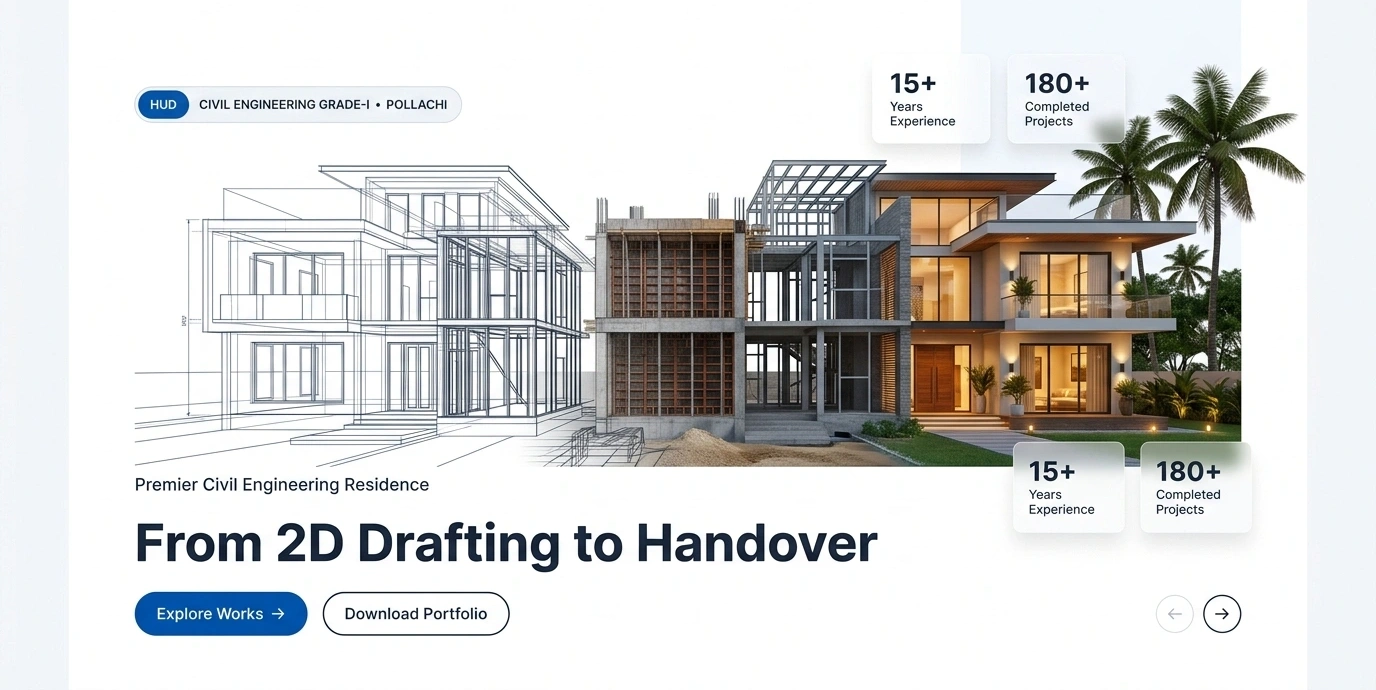
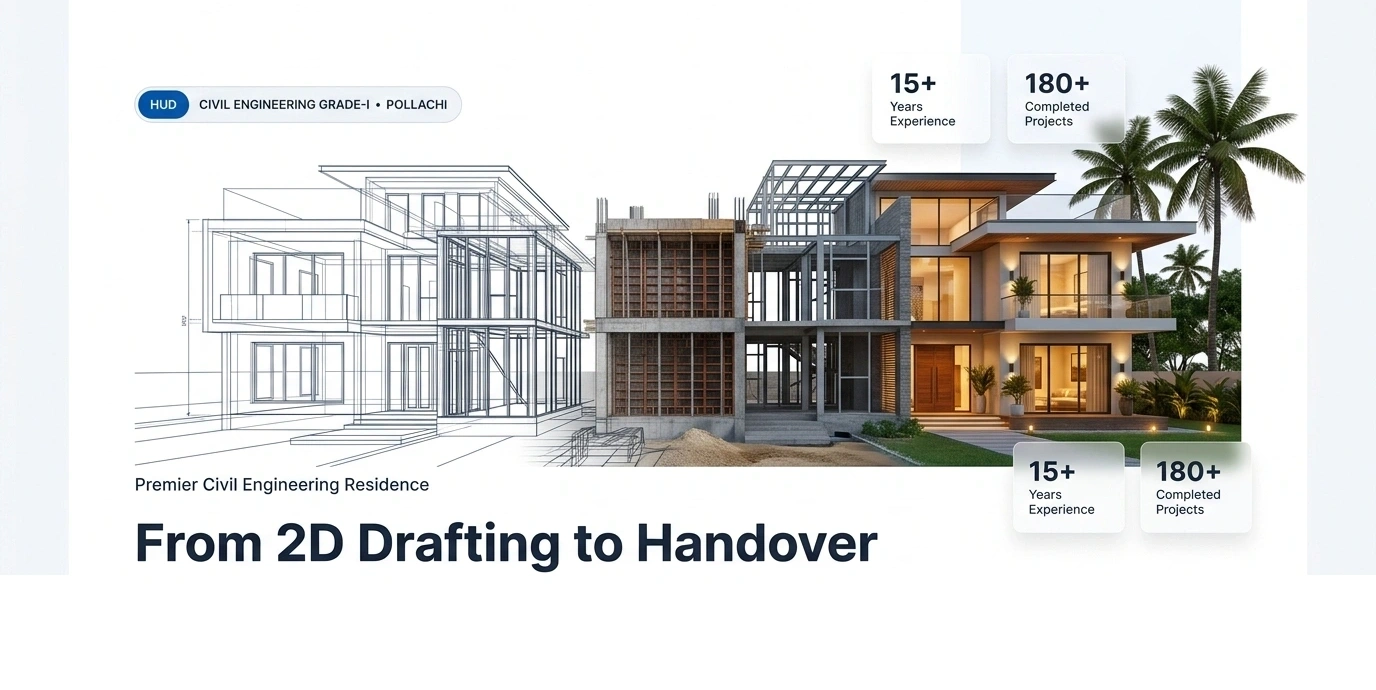
fix(hero): remove Anamalai resort from hero and fix double button overlap

Changed region(s): [[0.0938, 0.8522, 0.375, 0.9435], [0.875, 0.8522, 0.9062, 0.913]]

diff --git a/src/components/hero/EngineeringBimHero.jsx b/src/components/hero/EngineeringBimHero.jsx
@@ -1,15 +1,11 @@
-import { ArrowLeft, ArrowRight, ArrowUpRight, Compass, Download, Layers } from 'lucide-react'
+import { ArrowRight, ArrowUpRight } from 'lucide-react'
 import { useState } from 'react'
 import { resolveAssetUrl } from '@/services/frameSequence'
 import ArchitectureScrollHero from '@/components/ArchitectureScrollHero'
 
 export default function EngineeringBimHero({ company = {} }) {
-  // Slide modes: 'bim' (3-stage evolution), 'villa' (Anamalai Villa), '3d' (Interactive 3D Walkthrough)
-  const [slide, setSlide] = useState(0)
-  const slides = ['bim', 'villa', '3d']
-
-  const nextSlide = () => setSlide((prev) => (prev + 1) % slides.length)
-  const prevSlide = () => setSlide((prev) => (prev - 1 + slides.length) % slides.length)
+  // Modes: 'bim' (3-Stage 2D to Handover Evolution) vs '3d' (Interactive 3D Walkthrough)
+  const [currentMode, setCurrentMode] = useState('bim')
 
   const handleExploreClick = (e) => {
     e.preventDefault()
@@ -29,17 +25,15 @@ export default function EngineeringBimHero({ company = {} }) {
     }
   }
 
-  const currentMode = slides[slide]
-
   return (
     <section className="relative w-full bg-white pt-4 md:pt-6 pb-8 md:pb-12 overflow-hidden border-b border-slate-200" aria-label="Hero Showcase">
       <div className="thozha-container">
         {/* ==========================================================================
-            DESKTOP HERO VIEW (md:block): Matching Sample 2 (media_1792082049715_edebb03f.jpg)
+            DESKTOP HERO VIEW (hidden md:block): Matching Sample 2 (From 2D Drafting to Handover)
             ========================================================================== */}
         <div className="hidden md:block">
-          {/* Top HUD Badge & Slide Mode Indicators */}
-          <div className="flex items-center justify-between flex-wrap gap-3 mb-6">
+          {/* Top HUD Badge & Mode Toggle */}
+          <div className="flex items-center justify-between flex-wrap gap-3 mb-5">
             <div className="inline-flex items-center gap-2.5 px-3.5 py-1.5 rounded-full bg-blue-50 border border-blue-200">
               <span className="px-1.5 py-0.5 rounded bg-blue-700 text-white font-mono text-[10px] font-bold tracking-widest">
                 HUD
@@ -49,31 +43,26 @@ export default function EngineeringBimHero({ company = {} }) {
               </span>
             </div>
 
-            {/* Mode Switcher Pills */}
+            {/* Mode Switcher: 2D to Handover vs Interactive 3D Walkthrough */}
             <div className="inline-flex items-center rounded-full bg-slate-100 p-1 border border-slate-200 text-xs font-semibold">
               <button
                 type="button"
-                onClick={() => setSlide(0)}
-                className={`px-3 py-1 rounded-full transition-all border-none cursor-pointer ${
-                  slide === 0 ? 'bg-white text-blue-700 shadow-sm font-bold' : 'text-slate-600 hover:text-slate-900 bg-transparent'
+                onClick={() => setCurrentMode('bim')}
+                className={`px-3.5 py-1.5 rounded-full transition-all border-none cursor-pointer ${
+                  currentMode === 'bim'
+                    ? 'bg-white text-blue-700 shadow-sm font-bold'
+                    : 'text-slate-600 hover:text-slate-900 bg-transparent'
                 }`}
               >
                 2D to Handover
               </button>
               <button
                 type="button"
-                onClick={() => setSlide(1)}
-                className={`px-3 py-1 rounded-full transition-all border-none cursor-pointer ${
-                  slide === 1 ? 'bg-white text-blue-700 shadow-sm font-bold' : 'text-slate-600 hover:text-slate-900 bg-transparent'
-                }`}
-              >
-                Anamalai Villa
-              </button>
-              <button
-                type="button"
-                onClick={() => setSlide(2)}
-                className={`px-3 py-1 rounded-full transition-all border-none cursor-pointer ${
-                  slide === 2 ? 'bg-blue-600 text-white shadow-sm font-bold' : 'text-slate-600 hover:text-slate-900 bg-transparent'
+                onClick={() => setCurrentMode('3d')}
+                className={`px-3.5 py-1.5 rounded-full transition-all border-none cursor-pointer ${
+                  currentMode === '3d'
+                    ? 'bg-blue-600 text-white shadow-sm font-bold'
+                    : 'text-slate-600 hover:text-slate-900 bg-transparent'
                 }`}
               >
                 Interactive 3D Walkthrough
@@ -81,10 +70,10 @@ export default function EngineeringBimHero({ company = {} }) {
             </div>
           </div>
 
-          {/* Mode 0: 3-Stage Evolution Visual */}
+          {/* Mode 1: 3-Stage Evolution Visual (From 2D Drafting to Handover) */}
           {currentMode === 'bim' && (
             <div className="relative w-full rounded-2xl md:rounded-3xl overflow-hidden border border-slate-200 shadow-xl bg-white">
-              <div className="relative w-full aspect-[16/8.2] bg-white overflow-hidden">
+              <div className="relative w-full aspect-[16/8.02] bg-white overflow-hidden">
                 <img
                   src={resolveAssetUrl('images/thozha/hero-section-full.webp')}
                   alt="From 2D Drafting to Handover - 3-Stage Architecture & Civil Evolution"
@@ -92,101 +81,28 @@ export default function EngineeringBimHero({ company = {} }) {
                   loading="eager"
                 />
 
-                {/* Interactive Action Hotspot Overlays */}
-                <div className="absolute inset-0 p-8 md:p-10 flex flex-col justify-end pointer-events-none">
-                  <div className="flex items-end justify-between flex-wrap gap-4 pointer-events-auto">
-                    {/* Left Side Action Buttons */}
-                    <div className="flex items-center gap-3 flex-wrap">
-                      <a
-                        href="#portfolio"
-                        onClick={handleExploreClick}
-                        className="inline-flex items-center gap-2 px-6 py-3 rounded-full bg-[#0056b3] text-white font-bold text-sm tracking-wide shadow-lg hover:bg-blue-800 transition-all cursor-pointer no-underline"
-                      >
-                        Explore Works <ArrowRight size={15} />
-                      </a>
-                      <a
-                        href="#consultation"
-                        onClick={handleConsultClick}
-                        className="inline-flex items-center gap-2 px-6 py-3 rounded-full bg-white/90 border border-slate-900 text-slate-900 font-bold text-sm tracking-wide shadow-sm hover:bg-slate-900 hover:text-white transition-all cursor-pointer no-underline"
-                      >
-                        Download Portfolio
-                      </a>
-                    </div>
-
-                    {/* Right Side Carousel Buttons */}
-                    <div className="flex items-center gap-2">
-                      <button
-                        type="button"
-                        onClick={prevSlide}
-                        className="w-10 h-10 rounded-full border border-slate-300 bg-white/90 hover:bg-white text-slate-700 flex items-center justify-center cursor-pointer shadow-sm hover:scale-105 transition-all"
-                        aria-label="Previous showcase"
-                      >
-                        <ArrowLeft size={16} />
-                      </button>
-                      <button
-                        type="button"
-                        onClick={nextSlide}
-                        className="w-10 h-10 rounded-full border border-slate-300 bg-white/90 hover:bg-white text-slate-700 flex items-center justify-center cursor-pointer shadow-sm hover:scale-105 transition-all"
-                        aria-label="Next showcase"
-                      >
-                        <ArrowRight size={16} />
-                      </button>
-                    </div>
-                  </div>
-                </div>
-              </div>
-            </div>
-          )}
-
-          {/* Mode 1: Anamalai Villa Handover View */}
-          {currentMode === 'villa' && (
-            <div className="relative w-full rounded-2xl md:rounded-3xl overflow-hidden border border-slate-200 shadow-xl bg-slate-900 aspect-[16/8.2]">
-              <img
-                src={resolveAssetUrl('images/thozha/hero-anamalai-clean.webp')}
-                alt="The Anamalai Courtyard Villa in Pollachi"
-                className="w-full h-full object-cover"
-                loading="eager"
-              />
-              <div className="absolute inset-0 bg-gradient-to-t from-slate-950/85 via-slate-950/25 to-transparent p-10 flex flex-col justify-end text-white">
-                <span className="text-xs font-bold tracking-widest uppercase text-blue-300 mb-1">
-                  FEATURED TURNKEY HANDOVER
-                </span>
-                <h2 className="text-3xl md:text-4xl font-extrabold text-white mb-2">
-                  The Anamalai Courtyard Villa
-                </h2>
-                <p className="text-base text-slate-200 max-w-xl mb-6">
-                  4,200 sq.ft contemporary tropical sanctuary facing the Western Ghats with central rainwater court and Burma teak louvers.
-                </p>
-                <div className="flex items-center justify-between flex-wrap gap-4">
+                {/* Clean, Non-overlapping Interactive Action Buttons */}
+                <div className="absolute bottom-5 md:bottom-7 left-6 md:left-10 flex items-center gap-3">
                   <a
                     href="#portfolio"
                     onClick={handleExploreClick}
-                    className="inline-flex items-center gap-2 px-6 py-2.5 rounded-full bg-white text-slate-950 font-bold text-xs tracking-wider uppercase hover:bg-blue-50 transition-all no-underline"
+                    className="inline-flex items-center gap-2 px-6 py-3 rounded-full bg-[#0056b3] text-white font-bold text-xs tracking-wider uppercase shadow-md hover:bg-blue-800 transition-all cursor-pointer no-underline active:scale-[0.98]"
                   >
-                    View Project Details <ArrowUpRight size={14} />
+                    Explore Works <ArrowRight size={14} />
                   </a>
-                  <div className="flex items-center gap-2">
-                    <button
-                      type="button"
-                      onClick={prevSlide}
-                      className="w-10 h-10 rounded-full border border-white/30 bg-black/40 hover:bg-white/20 text-white flex items-center justify-center cursor-pointer"
-                    >
-                      <ArrowLeft size={16} />
-                    </button>
-                    <button
-                      type="button"
-                      onClick={nextSlide}
-                      className="w-10 h-10 rounded-full border border-white/30 bg-black/40 hover:bg-white/20 text-white flex items-center justify-center cursor-pointer"
-                    >
-                      <ArrowRight size={16} />
-                    </button>
-                  </div>
+                  <a
+                    href="#consultation"
+                    onClick={handleConsultClick}
+                    className="inline-flex items-center gap-2 px-6 py-3 rounded-full bg-white border border-slate-800 text-slate-800 font-bold text-xs tracking-wider uppercase shadow-xs hover:bg-slate-900 hover:text-white transition-all cursor-pointer no-underline active:scale-[0.98]"
+                  >
+                    Download Portfolio
+                  </a>
                 </div>
               </div>
             </div>
           )}
 
-          {/* Mode 2: Interactive 3D Walkthrough View */}
+          {/* Mode 2: Interactive Continuous 3D Walkthrough View */}
           {currentMode === '3d' && (
             <div className="border border-slate-200 rounded-2xl md:rounded-3xl overflow-hidden shadow-xl bg-slate-50">
               <div className="bg-slate-900 text-white px-6 py-3 flex items-center justify-between text-xs">
@@ -195,8 +111,8 @@ export default function EngineeringBimHero({ company = {} }) {
                 </span>
                 <button
                   type="button"
-                  onClick={() => setSlide(0)}
-                  className="text-white hover:text-blue-300 underline cursor-pointer bg-transparent border-none"
+                  onClick={() => setCurrentMode('bim')}
+                  className="text-white hover:text-blue-300 underline cursor-pointer bg-transparent border-none text-xs"
                 >
                   Back to 2D to Handover View ✕
                 </button>
@@ -207,7 +123,7 @@ export default function EngineeringBimHero({ company = {} }) {
         </div>
 
         {/* ==========================================================================
-            MOBILE HERO VIEW (block md:hidden): Directly matching screen 01.png
+            MOBILE HERO VIEW (block md:hidden): 3-Stage Evolution & Mobile Metrics
             ========================================================================== */}
         <div className="block md:hidden">
           {/* Mobile Badge */}
@@ -226,19 +142,19 @@ export default function EngineeringBimHero({ company = {} }) {
             Dedicated to sustainable tropical architecture, Vaastu harmony, and turnkey structural engineering across Western Tamil Nadu.
           </p>
 
-          {/* Mobile Image Card */}
+          {/* Mobile 3-Stage Evolution Image Card (Replacing Anamalai Resort) */}
           <div className="relative w-full rounded-2xl overflow-hidden shadow-md border border-slate-200 aspect-[16/10] bg-slate-900 mb-4">
             <img
-              src={resolveAssetUrl('images/thozha/hero-anamalai-clean.webp')}
-              alt="The Anamalai Courtyard Villa in Pollachi"
-              className="w-full h-full object-cover"
+              src={resolveAssetUrl('images/thozha/hero-section-full.webp')}
+              alt="From 2D Drafting to Handover - 3-Stage Civil Evolution"
+              className="w-full h-full object-cover object-top"
               loading="eager"
             />
-            <div className="absolute inset-0 bg-gradient-to-t from-slate-950/75 via-transparent to-transparent p-3 flex items-end">
+            <div className="absolute inset-0 bg-gradient-to-t from-slate-950/80 via-transparent to-transparent p-3 flex items-end">
               <div className="w-full flex items-center justify-between text-slate-900 bg-white/95 backdrop-blur-md px-3.5 py-2 rounded-full border border-white/60 shadow-md">
                 <span className="text-[10px] font-extrabold uppercase tracking-wider text-slate-800 truncate flex items-center gap-1.5">
-                  <span className="w-1.5 h-1.5 rounded-full bg-emerald-500 shrink-0" />
-                  THE ANAMALAI COURTYARD VILLA • RESIDENTIAL HANDOVER
+                  <span className="w-1.5 h-1.5 rounded-full bg-blue-600 shrink-0" />
+                  2D CAD TO TURNKEY HANDOVER • CIVIL GRADE-I
                 </span>
                 <ArrowUpRight size={14} className="shrink-0 text-slate-800 ml-1" />
               </div>
